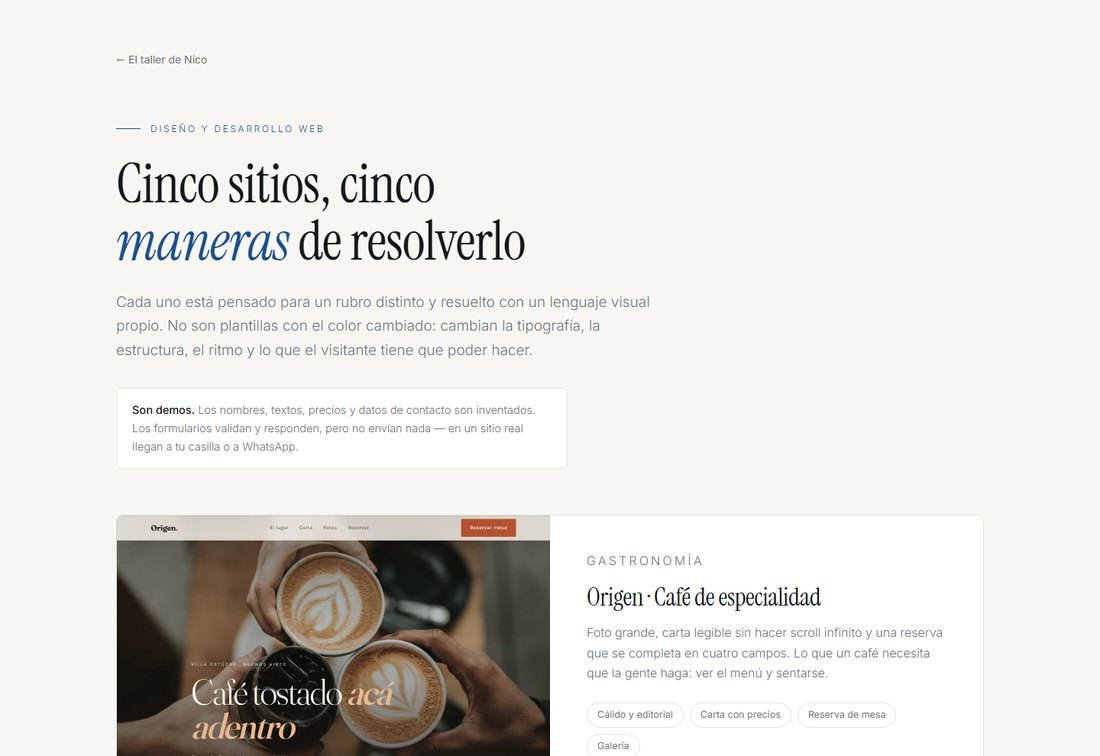
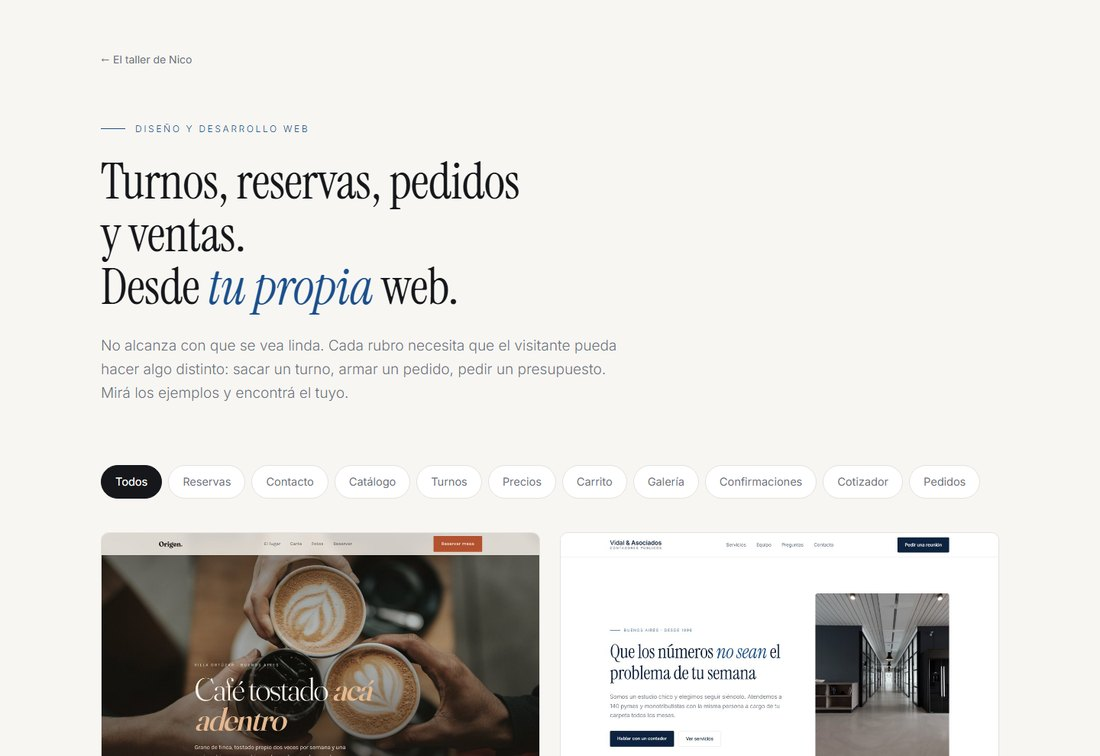
Sitios: cabecera mas vendedora
El titulo hablaba de como pienso el diseno, no de lo que gana el que
mira. Ahora enumera lo que su web puede hacer -turnos, reservas, pedidos
y ventas- y la bajada aterriza que cada rubro necesita algo distinto.

La segunda frase va en un inline-block para que baje entera: si no,
'Desde' quedaba colgando al final de la linea.

diff --git a/sitios/index.html b/sitios/index.html
@@ -4,7 +4,7 @@
 <meta charset="utf-8">
 <meta name="viewport" content="width=device-width, initial-scale=1">
 <title>Sitios web · Nico Guerrero</title>
-<meta name="description" content="Sitios web por rubro: gastronomía, servicios profesionales, salud, turismo, inmobiliaria, e-commerce, eventos y más. Diseño y desarrollo a medida.">
+<meta name="description" content="Turnos, reservas, pedidos y ventas desde tu propia web. Doce sitios de ejemplo, uno por rubro: gastronomía, salud, turismo, inmobiliaria, e-commerce, eventos y más.">
 <link rel="preconnect" href="https://fonts.googleapis.com">
 <link rel="preconnect" href="https://fonts.gstatic.com" crossorigin>
 <link href="https://fonts.googleapis.com/css2?family=Instrument+Serif:ital@0;1&family=Inter:wght@300;400;500;600&display=swap" rel="stylesheet">
@@ -30,8 +30,10 @@
   .kicker{font-size:12px;letter-spacing:.22em;text-transform:uppercase;color:var(--acento);
           display:flex;align-items:center;gap:13px;margin-bottom:24px}
   .kicker::before{content:"";width:32px;height:1px;background:var(--acento)}
-  h1{font-size:clamp(42px,6vw,72px);line-height:1.05;max-width:17ch}
+  h1{font-size:clamp(38px,5.4vw,66px);line-height:1.05;max-width:19ch}
   h1 em{font-style:italic;color:var(--acento)}
+  /* la segunda frase baja entera en vez de dejar "Desde" colgando al final de la linea */
+  h1 .junto{display:inline-block}
   header p{color:var(--gris);font-size:19px;max-width:60ch;margin-top:26px;font-weight:300}
 
   /* filtros por lo que resuelve cada uno, no por rubro: el que mira quiere saber si
@@ -98,8 +100,9 @@
   <header>
     <a class="volver" href="../">← El taller de Nico</a>
     <p class="kicker">Diseño y desarrollo web</p>
-    <h1 class="serif">Cada rubro, su <em>manera</em> de resolverlo</h1>
-    <p>Cada sitio está pensado para un rubro distinto y resuelto con un lenguaje visual propio. No son plantillas con el color cambiado: cambian la tipografía, la estructura, el ritmo y —sobre todo— lo que el visitante tiene que poder hacer.</p>
+    <h1 class="serif">Turnos, reservas, pedidos y ventas.
+      <span class="junto">Desde <em>tu propia</em> web.</span></h1>
+    <p>No alcanza con que se vea linda. Cada rubro necesita que el visitante pueda hacer algo distinto: sacar un turno, armar un pedido, pedir un presupuesto. Mirá los ejemplos y encontrá el tuyo.</p>
   </header>
 
   <div class="filtros" id="filtros"></div>
